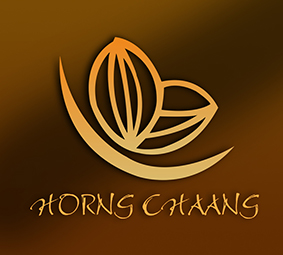
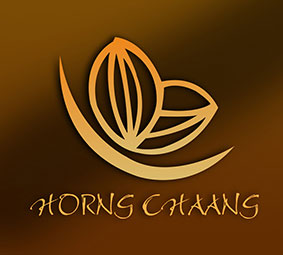
View Check For David

diff --git a/index.html b/index.html
@@ -29,11 +29,11 @@
     <div class="content">
         <div class="slideshow">
 <div class="leftshow">
-    <div><img src="img/slide/AdobeStock_300128393_Preview.jpeg" alt=""></div>
-    <div><img src="img/slide/AdobeStock_302110379_Preview.jpeg" alt=""></div>
-    <div><img src="img/slide/AdobeStock_305094244_Preview.jpeg" alt=""></div>
-    <div><img src="img/slide/AdobeStock_193426672_Preview.jpeg" alt=""></div>
-    <div><img src="img/slide/AdobeStock_306942150_Preview.jpeg" alt=""></div>
+    <div><img src="img/slide/AdobeStock_300128393_Preview.jpg" alt=""></div>
+    <div><img src="img/slide/AdobeStock_302110379_Preview.jpg" alt=""></div>
+    <div><img src="img/slide/AdobeStock_305094244_Preview.jpg" alt=""></div>
+    <div><img src="img/slide/AdobeStock_193426672_Preview.jpg" alt=""></div>
+    <div><img src="img/slide/AdobeStock_306942150_Preview.jpg" alt=""></div>
 </div>
 <div class="rightshow">
     

diff --git a/css/main.css b/css/main.css
@@ -33,7 +33,7 @@ body {
 .header h1 a {
     width: 300px;
     height: 200px;
-    background-image: url("../img/HorngchaangLogo.png");
+    background-image: url("../img/HorngchaangLogo.jpg");
     background-size: 100%;
     background-repeat: no-repeat;
     margin-right: 30px;
@@ -154,7 +154,7 @@ body {
 .rightshow {
   width: 804px;
   margin-left:4px;
-  background-image: url("../img/slide/AdobeStock_165611507_Preview.jpeg");
+  background-image: url("../img/slide/AdobeStock_165611507_Preview.jpg");
   background-size: cover;
 }
 
